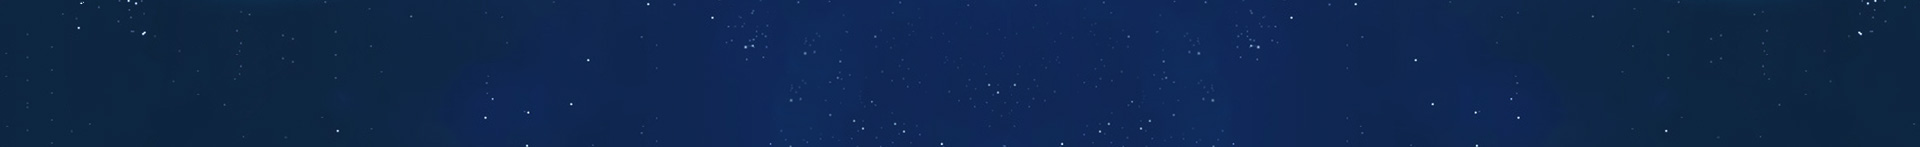
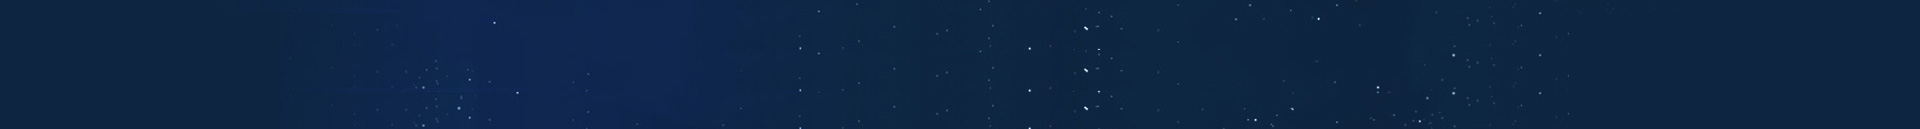
完成新闻动态的内容列表功能

diff --git a/src/SumStar/SumStar/Content/Site.css b/src/SumStar/SumStar/Content/Site.css
@@ -1,12 +1,11 @@
-/*body {
-	padding-top: 50px;
+body.admin {
+	padding-top: 40px;
 	padding-bottom: 20px;
-}*/
+}
 
 /* Set padding to keep content from hitting the edges */
 .body-content {
-	padding-left: 15px;
-	padding-right: 15px;
+	padding: 15px;
 }
 
 /* Override the default bootstrap behavior where horizontal description lists 
@@ -23,6 +22,10 @@ textarea {
 	max-width: 280px;
 }
 
+
+td.right-align {
+	text-align: right;
+}
 
 .navbar-logo {
 	min-height: 95px;
@@ -66,13 +69,45 @@ textarea {
 		background-color: #be214c;
 	}
 
+#content-header {
+	height: 461px;
+	background: url("images/bg-content-header.jpg") no-repeat center center;
+}
+
+	#content-header h1 {
+		color: #e3e8ee;
+		font-size: 48px;
+		font-weight: bolder;
+		text-align: center;
+		line-height: 461px;
+		margin-top: 0;
+	}
+
+.content-list-header {
+	height: 35px;
+	background: url("images/bg-content-list-header.jpg") no-repeat left bottom;
+}
+
+	.content-list-header .pull-left {
+		font-size: 14px;
+		font-weight: bold;
+		color: #003f92;
+		padding-bottom: 10px;
+		margin-top: 10px;
+	}
+
+	.content-list-header .pull-right {
+		padding-bottom: 10px;
+		margin-top: 10px;
+	}
+
 .footer-site {
-	height: 147px;
+	height: 129px;
 	background: url("images/bg-footer.jpg") no-repeat center center;
 }
 
 	.footer-site p {
-		margin-top: 50px;
+		margin-top: 40px;
 		color: #fff;
 		line-height: 200%;
 	}

diff --git a/src/SumStar/SumStar/Content/Site-Index.css b/src/SumStar/SumStar/Content/Site-Index.css
@@ -1,7 +1,7 @@
 .body-index {
 	background: url("images/bg-index.jpg") no-repeat center center;
-	height: 1002px;
-	padding-top: 565px;
+	height: 873px;
+	padding-top: 505px;
 }
 
 .simply-scroll, .simply-scroll .simply-scroll-clip {

diff --git a/src/SumStar/SumStar/Controllers/ContentsController.cs b/src/SumStar/SumStar/Controllers/ContentsController.cs
@@ -1,5 +1,4 @@
 using System;
-using System.Collections;
 using System.Collections.Generic;
 using System.Linq;
 using System.Linq.Expressions;
@@ -11,6 +10,8 @@ using Microsoft.AspNet.Identity.Owin;
 
 using Newtonsoft.Json;
 
+using PagedList;
+
 using SumStar.DataAccess;
 using SumStar.Helper;
 using SumStar.Models;
@@ -18,7 +19,6 @@ using SumStar.Services;
 
 namespace SumStar.Controllers
 {
-	[Authorize(Roles = "ContentAdmin")]
 	public class ContentsController : Controller
 	{
 		private ApplicationDbContext _dbContext;
@@ -48,6 +48,7 @@ namespace SumStar.Controllers
 			_categoryService = new CategoryService(DbContext);
 		}
 
+		[Authorize(Roles = "ContentAdmin")]
 		// GET: Contents?categoryId=5
 		public ActionResult Index(int? categoryId)
 		{
@@ -57,8 +58,8 @@ namespace SumStar.Controllers
 			return View();
 		}
 
-		// GET: Contents/GetByCategory?categoryId=5
-		public ActionResult GetByCategory(int categoryId)
+		// GET: Contents/GetJsonByCategory?categoryId=5
+		public ActionResult GetJsonByCategory(int categoryId)
 		{
 			Expression<Func<Content, bool>> predicate = i => i.CategoryId == categoryId;
 			IEnumerable<Category> categories = CategoryService.GetRecursiveChilds(categoryId);
@@ -75,6 +76,66 @@ namespace SumStar.Controllers
 			return Content(json);
 		}
 
+		// GET: Contents/List?categoryId=5&categoryName=新闻动态&pageSize=10&page=1
+		public ActionResult List(int? categoryId, string categoryName, int? pageSize, int? page)
+		{
+			Category category;
+			if (categoryId == null)
+			{
+				category = DbContext.Categories.First(i => i.Name == categoryName);
+			}
+			else
+			{
+				category = DbContext.Categories.Find(categoryId);
+			}
+			if (category == null)
+			{
+				return HttpNotFound();
+			}
+			ViewBag.Category = category;
+
+			Expression<Func<Content, bool>> predicate = i => i.CategoryId == category.Id;
+			IEnumerable<Category> categories = CategoryService.GetRecursiveChilds(category.Id);
+			predicate = categories.Aggregate(predicate, (current, c) => current.Or(i => i.CategoryId == c.Id));
+
+			var query = from content in DbContext.Contents
+						orderby content.DisplayOrder descending
+						select content;
+			// 分页处理
+			pageSize = (pageSize ?? 10);
+			page = (page ?? 1);
+			IPagedList<Content> pagedList = query.Where(predicate).ToPagedList(page.Value, pageSize.Value);
+
+			return View(pagedList);
+		}
+
+		// GET: Contents/ListByName?categoryName=新闻动态&pageSize=10&page=1
+		public ActionResult ListByName(string categoryName, int? pageSize, int? page)
+		{
+			Category category = DbContext.Categories.Single(i => i.Name == categoryName);
+			if (category == null)
+			{
+				return HttpNotFound();
+			}
+			ViewBag.Category = category;
+
+			Expression<Func<Content, bool>> predicate = i => i.CategoryId == category.Id;
+			IEnumerable<Category> categories = CategoryService.GetRecursiveChilds(category.Id);
+			predicate = categories.Aggregate(predicate, (current, c) => current.Or(i => i.CategoryId == c.Id));
+
+			var query = from content in DbContext.Contents
+						orderby content.DisplayOrder descending
+						select content;
+
+			// 分页处理
+			pageSize = (pageSize ?? 10);
+			page = (page ?? 1);
+			IPagedList<Content> pagedList = query.Where(predicate).ToPagedList(page.Value, pageSize.Value);
+
+			return View(pagedList);
+		}
+
+		[Authorize(Roles = "ContentAdmin")]
 		// GET: Contents/Create?categoryId=5
 		public ActionResult Create(int categoryId)
 		{
@@ -84,10 +145,14 @@ namespace SumStar.Controllers
 				return new HttpStatusCodeResult(HttpStatusCode.BadRequest);
 			}
 			string controllerName = category.ContentType + "Contents";
-			
-			return RedirectToAction("Create", controllerName, new {categoryId});
+
+			return RedirectToAction("Create", controllerName, new
+			{
+				categoryId
+			});
 		}
 
+		[Authorize(Roles = "ContentAdmin")]
 		// GET: Contents/Edit/5
 		public ActionResult Edit(int? id)
 		{
@@ -105,10 +170,14 @@ namespace SumStar.Controllers
 				return new HttpStatusCodeResult(HttpStatusCode.BadRequest);
 			}
 			string controllerName = content.Category.ContentType + "Contents";
-			
-			return RedirectToAction("Edit", controllerName, new {id});
+
+			return RedirectToAction("Edit", controllerName, new
+			{
+				id
+			});
 		}
 
+		[Authorize(Roles = "ContentAdmin")]
 		// GET: Contents/Delete/5
 		public ActionResult Delete(int? id)
 		{
@@ -126,8 +195,11 @@ namespace SumStar.Controllers
 				return new HttpStatusCodeResult(HttpStatusCode.BadRequest);
 			}
 			string controllerName = content.Category.ContentType + "Contents";
-			
-			return RedirectToAction("Delete", controllerName, new {id});
+
+			return RedirectToAction("Delete", controllerName, new
+			{
+				id
+			});
 		}
 
 		protected override void Dispose(bool disposing)

diff --git a/src/SumStar/SumStar/Controllers/CategoriesController.cs b/src/SumStar/SumStar/Controllers/CategoriesController.cs
@@ -1,4 +1,5 @@
 using System;
+using System.Collections;
 using System.Collections.Generic;
 using System.Data.Entity;
 using System.Linq;
@@ -20,7 +21,6 @@ using SumStar.Services;
 
 namespace SumStar.Controllers
 {
-	[Authorize(Roles = "ContentAdmin")]
 	public class CategoriesController : Controller
 	{
 		private ApplicationDbContext _dbContext;
@@ -52,9 +52,17 @@ namespace SumStar.Controllers
 		public CategoryService CategoryService => _categoryService ?? new CategoryService(DbContext);
 
 		// GET: Categories
+		[Authorize(Roles = "ContentAdmin")]
 		public ActionResult Index()
 		{
 			return View();
+		}
+
+		// GET: Categories/Navigator/5
+		public PartialViewResult Navigator(int id)
+		{
+			IList<Category> categories = CategoryService.GetRecursiveParents(id, true);
+            return PartialView("_NavigatorPartial", categories);
 		}
 
 		// GET: Categories/GetChildTreeNodes/5
@@ -87,23 +95,19 @@ namespace SumStar.Controllers
 		}
 
 		// GET: Categories/Create/5
+		[Authorize(Roles = "ContentAdmin")]
 		public ActionResult Create(int? id)
 		{
-			var allCategories = DbContext.Categories.ToList();
-			var topCategory = new Category
-			{
-				Id = 0,
-				Name = "【网站栏目】"
-			};
-			allCategories.Insert(0, topCategory);
-			ViewBag.ParentId = new SelectList(allCategories, "Id", "Name", id);
+			var categories = DbContext.Categories.ToList();
+			ViewBag.ParentId = new SelectList(categories, "Id", "Name", id);
 			
 			return View();
 		}
-
+		
 		// POST: Categories/Create
 		// 为了防止“过多发布”攻击，请启用要绑定到的特定属性，有关 
 		// 详细信息，请参阅 http://go.microsoft.com/fwlink/?LinkId=317598。
+		[Authorize(Roles = "ContentAdmin")]
 		[HttpPost]
 		[ValidateAntiForgeryToken]
 		public ActionResult Create(
@@ -120,18 +124,13 @@ namespace SumStar.Controllers
 				return RedirectToAction("Index");
 			}
 
-			var allCategories = DbContext.Categories.ToList();
-			var topCategory = new Category
-			{
-				Id = 0,
-				Name = "【网站栏目】"
-			};
-			allCategories.Insert(0, topCategory);
-			ViewBag.ParentId = new SelectList(allCategories, "Id", "Name", category.ParentId);
+			var categories = DbContext.Categories.ToList();
+			ViewBag.ParentId = new SelectList(categories, "Id", "Name", category.ParentId);
 			return View(category);
 		}
 
 		// GET: Categories/Edit/5
+		[Authorize(Roles = "ContentAdmin")]
 		public ActionResult Edit(int? id)
 		{
 			if (id == null)
@@ -150,6 +149,7 @@ namespace SumStar.Controllers
 		// POST: Categories/Edit/5
 		// 为了防止“过多发布”攻击，请启用要绑定到的特定属性，有关 
 		// 详细信息，请参阅 http://go.microsoft.com/fwlink/?LinkId=317598。
+		[Authorize(Roles = "ContentAdmin")]
 		[HttpPost]
 		[ValidateAntiForgeryToken]
 		public ActionResult Edit(
@@ -170,6 +170,7 @@ namespace SumStar.Controllers
 		}
 
 		// GET: Categories/Delete/5
+		[Authorize(Roles = "ContentAdmin")]
 		public ActionResult Delete(int? id)
 		{
 			if (id == null)
@@ -185,6 +186,7 @@ namespace SumStar.Controllers
 		}
 
 		// POST: Categories/Delete/5
+		[Authorize(Roles = "ContentAdmin")]
 		[HttpPost, ActionName("Delete")]
 		[ValidateAntiForgeryToken]
 		public ActionResult DeleteConfirmed(int id)

diff --git a/src/SumStar/SumStar/Services/CategoryService.cs b/src/SumStar/SumStar/Services/CategoryService.cs
@@ -50,5 +50,33 @@ namespace SumStar.Services
 			IList<Category> categories = query.ToList();
 			return categories.Concat(categories.SelectMany(category => GetRecursiveChilds(category.Id)));
 		}
+
+		/// <summary>
+		/// 获取所有递归父栏目。
+		/// </summary>
+		/// <param name="categoryId">栏目标识。</param>
+		/// <param name="includeSelf">是否包含当前栏目。</param>
+		/// <returns>所有递归父栏目。</returns>
+		public IList<Category> GetRecursiveParents(int categoryId, bool includeSelf)
+		{
+			IList<Category> categories = new List<Category>();
+			Category category = _dbContext.Categories.Find(categoryId);
+			if (category != null)
+			{
+				Category parentCategory = category.Parent;
+				while (parentCategory != null)
+				{
+					categories.Insert(0, parentCategory);
+					parentCategory = parentCategory.Parent;
+				}
+
+				if (includeSelf)
+				{
+					categories.Add(category);
+				}
+			}
+
+			return categories;
+		}
 	}
 }
